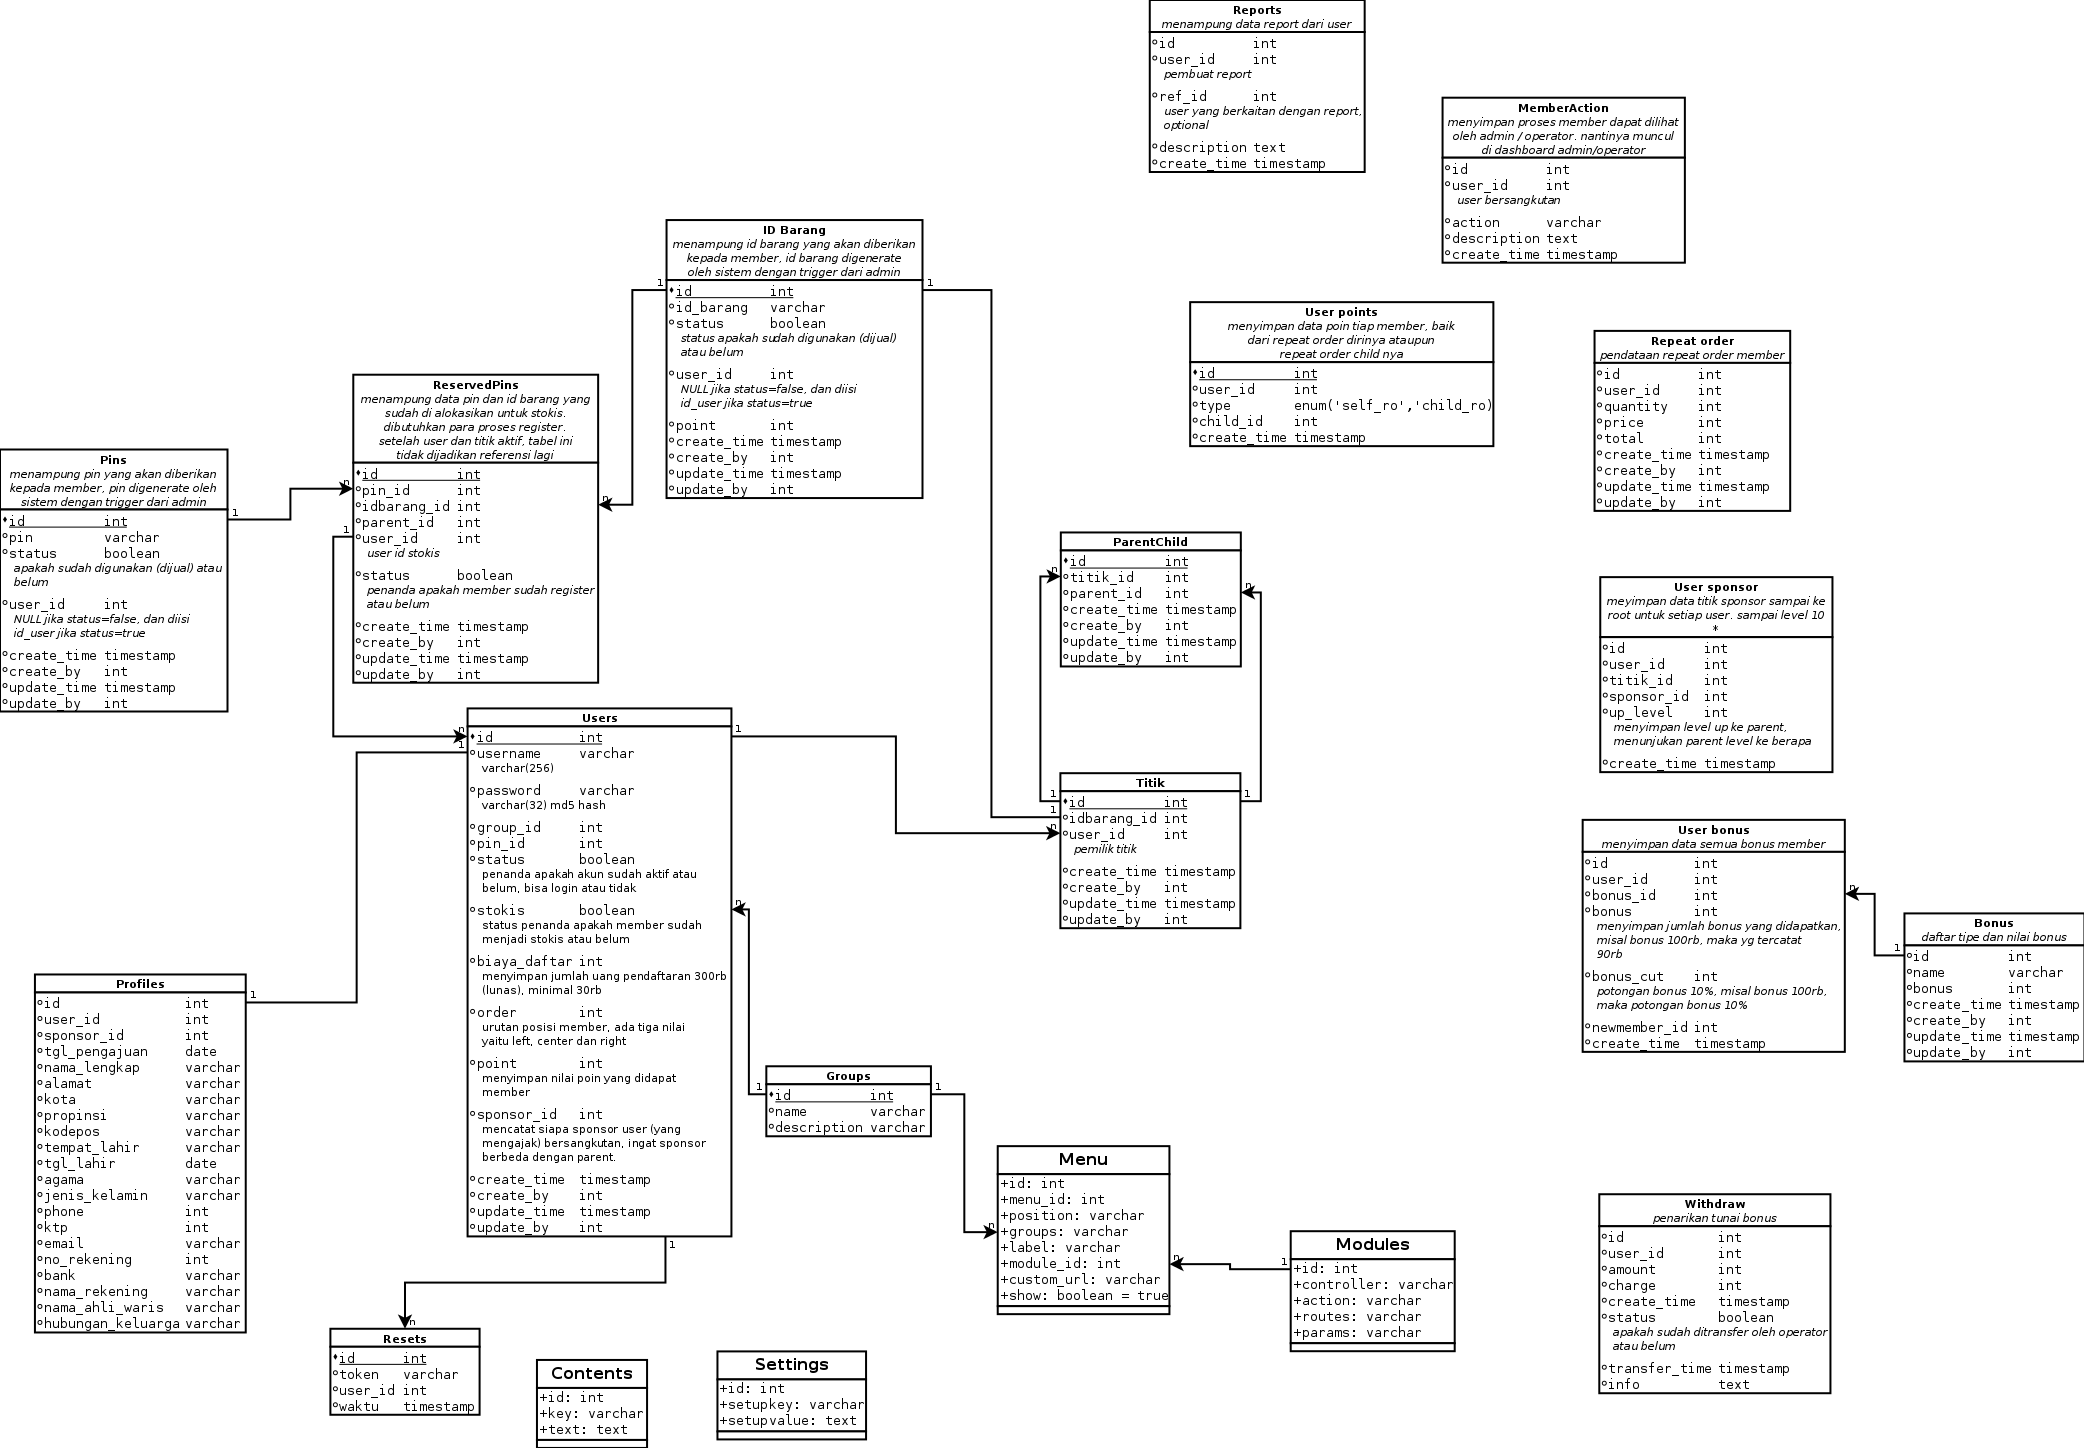
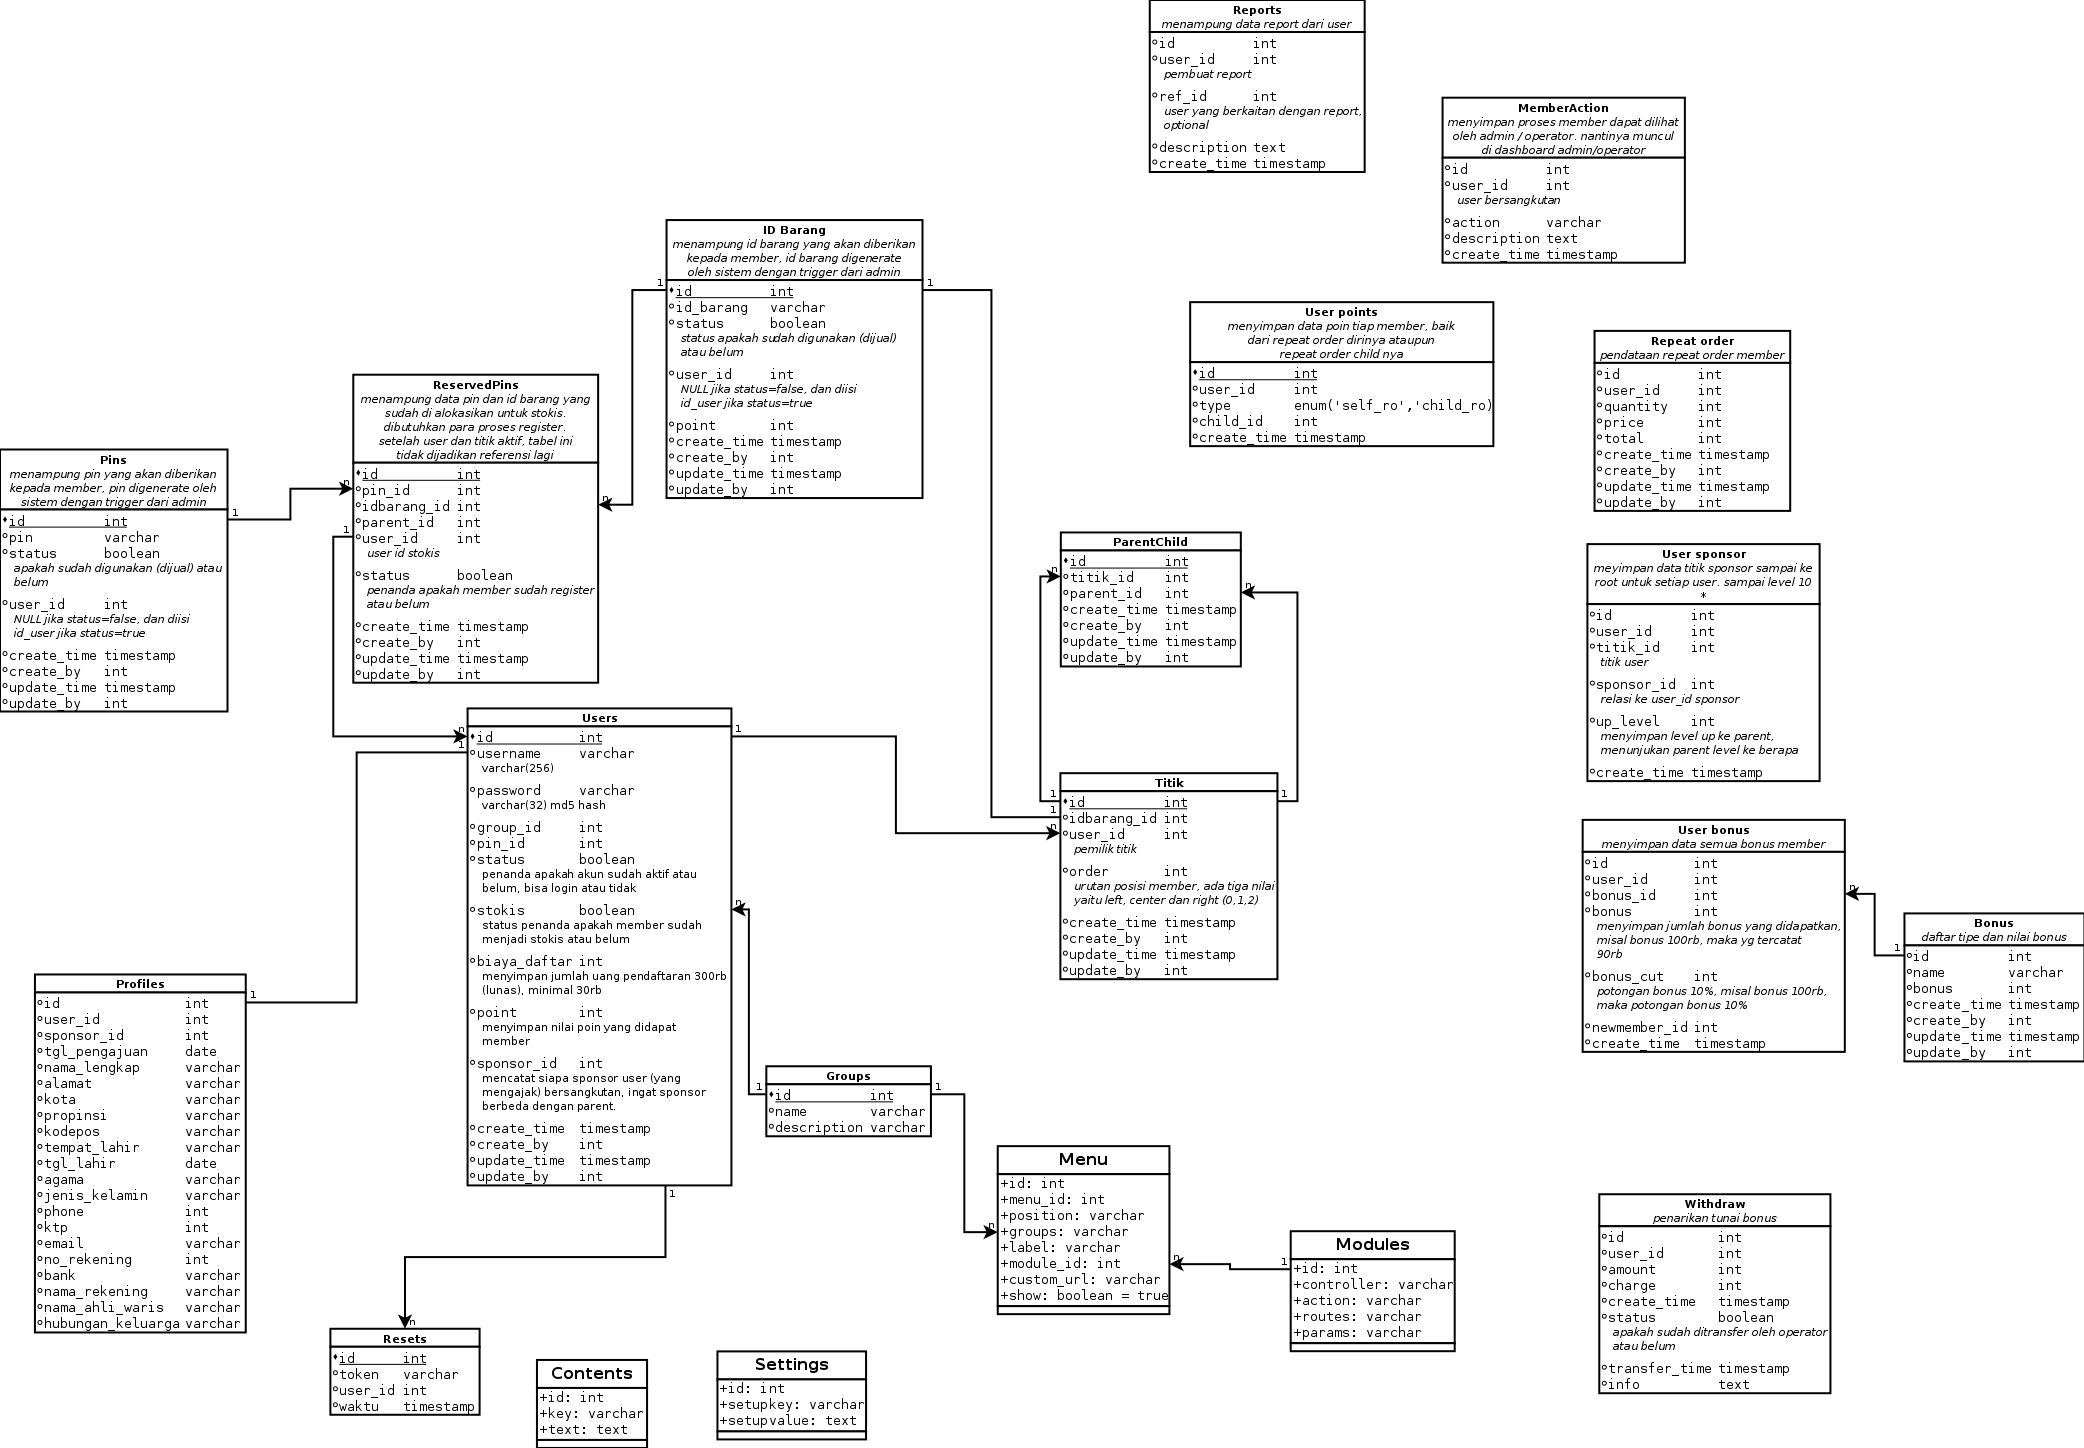
proses register

diff --git a/application/controllers/auth.php b/application/controllers/auth.php
@@ -116,16 +116,39 @@ class Auth extends OxyController {
 	
 	/* simpan data user, dipanggil oleh method add_user */
 	private function _save_user(){
-		$tmp_id = $this->post->input('id');
+		//~ update status pin dan idbarang
+		$pin_id = $this->input->post('pin_id');
+		$pin_id = decode_id($pin_id);
+		if(test_id($pin_id))
+			$this->rpin->update_pin_status($pin_id, STATUS_ACTIVE);
+		$arr_idb = $this->input->post('idbarang_id');
+		if(is_array($arr_idb)){
+			foreach($arr_idb as $aidx=>$iitem){
+				$idb_id = decode_id($iitem);
+				if(test_id($idb_id))
+					$this->rpin->update_idbarang_status($idb_id, STATUS_ACTIVE);
+			}
+		}
 		
-		//todo : set sponsor id
+		//~ stop jika pin_id tidak valid
+		if(!test_id($pin_id)){
+			redirect(route_url('welcome', 'bad_request'));
+			return;
+		}
+		
+		//~ ambil detail info reserved
+		$reserved_detail = $this->rpin->get_reserved_detail_by_pin_id($pin_id);
+		
+		$tmp_id = $this->post->input('id');
 		
 		$data_user = array(
 				'username'=>$this->input->post('username'),
 				'password'=>md5($this->input->post('password')),
 				'group_id'=>USER_MEMBER,
 				//~ aktifkan status user
-				'status'=>ACTIVE
+				'status'=>ACTIVE,
+				//~ sponsor (yang mengajak) yang dapat bonus
+				'sponsor_id'=>$reserved_detail->user_id
 			);
 		$data_profile = array(
 				//~ 'user_id'=>$user_id,
@@ -169,25 +192,39 @@ class Auth extends OxyController {
 		$user['logged_in'] = TRUE;
 		$this->session->set_userdata($user);
 		
-		//~ update status pin dan idbarang
-		$pin_id = $this->input->post('pin_id');
-		$pin_id = decode_id($pin_id);
-		if(test_id($pin_id))
-			$this->rpin->update_pin_status($pin_id, STATUS_ACTIVE);
-		$arr_idb = $this->input->post('idbarang_id');
-		if(is_array($arr_idb)){
-			foreach($arr_idb as $aidx=>$iitem){
-				$idb_id = decode_id($iitem);
-				if(test_id($idb_id))
-					$this->rpin->update_idbarang_status($idb_id, STATUS_ACTIVE);
-			}
-		}
-		
 		//todo : proses penyusunan titik
 		//todo : update order pada table users, berdasarkan posisi titik
-		//todo : member action register
 		//todo : add user sponsor
+		$childs = $this->users->get_last_level_sponsor($reserved_detail->user_id);
+		if(empty($childs)){
+			$root = $this->users->get_root_titik();
+			if(is_object($root)){
+				//~ root parent sudah ada, jadikan root sebagai sponsor
+				//~ titik dibuat sejumlah idbarang
+				if(is_array($arr_idb)){
+					foreach($arr_idb as $aidx=>$iitem){
+						$idb_id = decode_id($iitem);
+						if(test_id($idb_id))
+							$this->users->save_titik($user_id, $idb_id, $root->titik_id);
+					}
+				}
+			}else{
+				//~ root parent belum ada, jadikan member sebagai root parent
+				//~ titik dibuat sejumlah idbarang
+				if(is_array($arr_idb)){
+					foreach($arr_idb as $aidx=>$iitem){
+						$idb_id = decode_id($iitem);
+						if(test_id($idb_id))
+							$this->users->save_root($user_id, $idb_id);
+					}
+				}
+			}
+		}else{
+		}
+		
+		//todo : member action register
 		//todo : add user & sponsor & parent bonus
+		//todo : cek status stokis sponsor
 		
 		$this->session->set_flashdata('message_success', $this->lang->line('message_insert_user_success'));
 		redirect(route_url('manageuser', 'index'));

diff --git a/application/models/login/users.php b/application/models/login/users.php
@@ -143,4 +143,28 @@ class Users extends CI_Model {
 			return 0;
 		}
 	}
+	
+	//~ mengambil data member yang berada pada jaringan sponsor tertentu
+	function get_last_level_sponsor($sponsor_id){
+		$this->db->from('user_sponsor m');
+		$this->db->where('m.sponsor_id', $sponsor_id);
+		$this->db->where('m.up_level=(SELECT MAX(up_level) FROM user_sponsor WHERE sponsor_id=' .$sponsor_id. ')', null, false);
+		return $this->db->get()->result();
+	}
+	
+	function get_root_titik(){
+		$this->db->from('parent_childs pc');
+		$this->db->join('titik t', 't.id=pc.titik_id', 'left');
+		$this->db->where('pc.parent_child_id is NULL', null, false);
+		return $this->db->get()->row();
+	}
+	
+	function save_titik($user_id, $idbarang_id, $titik_parent_id){
+		$this->db->insert('titiks', array(
+			''
+		));
+	}
+	
+	function save_root($user_id){
+	}
 }

diff --git a/application/cache/new_routes.php b/application/cache/new_routes.php
@@ -31,4 +31,5 @@ $route['reserved-daftar-parent/(:any)'] = 'reservedpin/parent_list/$1';
 $route['reserved-idbarang-list'] = 'reservedpin/idbarang_list/';
 $route['reserved-idbarang-list/(:any)'] = 'reservedpin/idbarang_list/$1';
 $route['register-check-pin'] = 'auth/check_pin/';
+$route['error-bad-request'] = 'welcome/bad_request/';
 ?>

diff --git a/application/config/constants.php b/application/config/constants.php
@@ -55,6 +55,10 @@ define('STATUS_INACTIVE', 'inactive');
 define('STATUS_RESERVED', 'reserved');
 define('STATUS_ACTIVE', 'active');
 
+define('ORDER_LEFT', 'left');
+define('ORDER_CENTER', 'center');
+define('ORDER_RIGHT', 'right');
+
 
 /* End of file constants.php */
 /* Location: ./application/config/constants.php */

diff --git a/application/models/admin/reservedpin_model.php b/application/models/admin/reservedpin_model.php
@@ -113,4 +113,8 @@ class reservedpin_model extends CI_Model {
 		}else
 			return array();
 	}
+	
+	public function get_reserved_detail_by_pin_id($pin_id){
+		return $this->db->get_where('reserved_pins', array('pin_id', $pin_id))->row();
+	}
 }

diff --git a/application/controllers/welcome.php b/application/controllers/welcome.php
@@ -39,4 +39,8 @@ class Welcome extends OxyController {
 		file_put_contents(APPPATH . "cache/new_routes.php", $output);
 		redirect(base_url());
 	}
+	
+	function bad_request(){
+		$this->layout->view('error/400', array());
+	}
 }
